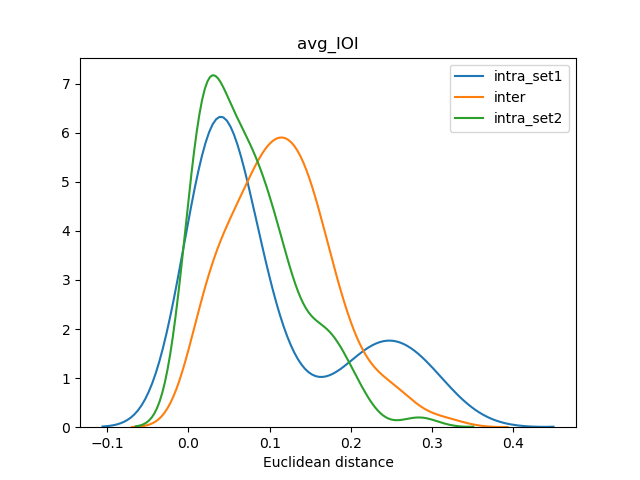
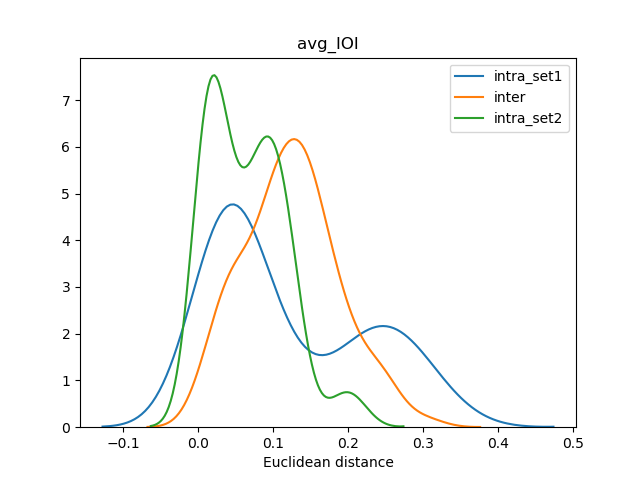
MGEval for SeqAttn

diff --git a/MINGUS_condEval.py b/MINGUS_condEval.py
@@ -203,7 +203,7 @@ if __name__ == '__main__':
     # Make directory to save metrics file
     parent_directory = f'metrics/{con.DATASET}/'
     model_id = f'MINGUS PITCH_COND {con.COND_TYPE_PITCH} DUR_COND {con.COND_TYPE_DURATION} Epochs {con.EPOCHS}'
-    #model_id = 'BebopNet'
+    model_id = 'SeqAttn'
     path = os.path.join(parent_directory, model_id + '/')
     if not os.path.isdir(path):
         os.mkdir(path)
@@ -224,14 +224,14 @@ if __name__ == '__main__':
     metrics_result['Duration']['Duration_BLEU'] = {}
     
     # MGEval on generated midi files
-    num_of_generations = 10
+    num_of_generations = 14
     #original_path = 'output/gen4eval_' + con.DATASET + '/original/*.mid'
     original_path = 'output/reference/*.mid'
     #generated_path = 'output/gen4eval_' + con.DATASET + '/generated/*.mid'
-    generated_path = 'output/00_MINGUS_gens/*.mid'
+    generated_path = 'output/02_SeqAttn_gens/*.mid'
     MGEresults = ev.MGEval(original_path, generated_path, path, num_of_generations)
     metrics_result['MGEval'] = MGEresults
-    
+    '''
     # Harmonic coherence of generated samples
     if con.DATASET == 'WjazzDB':
         original_scale_coherence, original_chord_coherence = ev.HarmonicCoherence(original_structuredSongs, 
@@ -292,7 +292,7 @@ if __name__ == '__main__':
     metrics_result['Duration']['Duration_perplexity'] = np.round_(math.exp(testLoss_results_duration), decimals=4)
     metrics_result['Duration']['Duration_accuracy'] = np.round_(accuracy_results_duration * 100, decimals=4)
     metrics_result['Duration']['Duration_BLEU'] = np.round_(bleu_duration, decimals=4)
-    
+    '''
     
     # Convert metrics dict to JSON and SAVE IT
     with open(path + 'metrics' + model_id + '.json', 'w') as fp:
